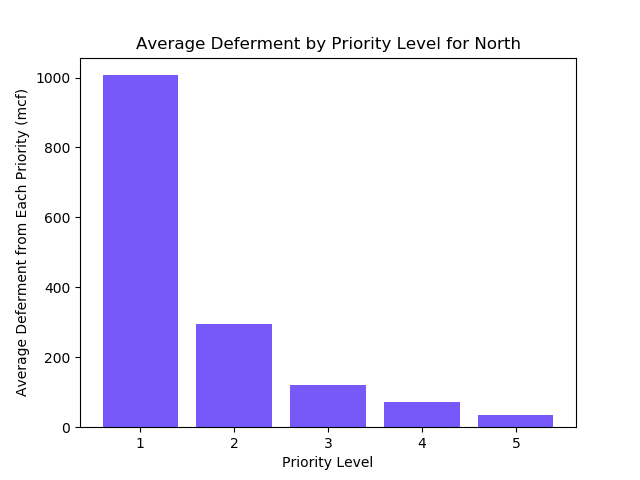
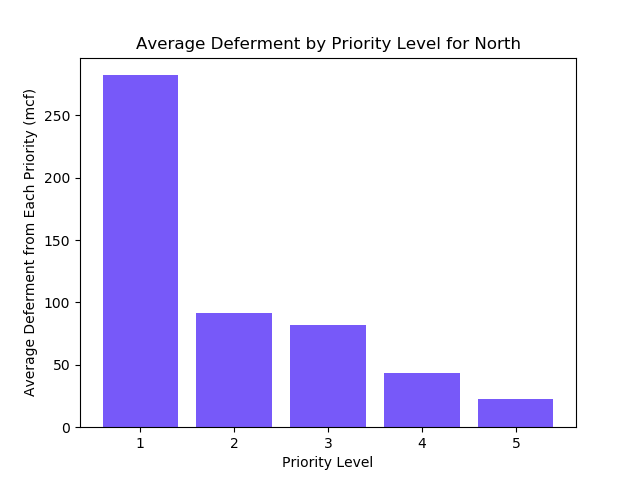
updated dispatch query

diff --git a/dispatch.py b/dispatch.py
@@ -50,10 +50,10 @@ def dispatch_pull():
 		  JOIN [OperationsDataMart].[Dimensions].[Facilities] F
 			ON F.Facilitykey = D.Facilitykey
 		  LEFT OUTER JOIN [TeamOptimizationEngineering].[Reporting].[ActionListHistory] ALH
-			ON LEFT(ALH.assetAPI, 8) = LEFT(D.LocationID, 8)
-			AND ALH.Person_assigned = D.Person_assigned
+			ON LEFT(ALH.assetAPI, 10) = LEFT(D.LocationID, 10)
 			AND CAST(D.CalcDate AS DATE) = CAST(ALH.[Action Date] AS DATE)
-		WHERE F.BusinessUnit IN ('North', 'West')
+		WHERE F.BusinessUnit IN ('West')
+		AND LEN(D.Person_assigned) > 2
 	""")
 
 	cursor.execute(SQLCommand)
@@ -141,7 +141,8 @@ def dispatch_hours(df):
 		plt.close()
 
 		def_df = df[(df['BusinessUnit'] == bu) &
-				    (df['agg_dur'].notnull())]\
+				    (df['agg_dur'].notnull()) &
+					(df['DefermendGas'] > 0)]\
 				   .groupby('PriorityLevel', as_index=False).mean()
 		def_df.rename(index=str, columns={'LocationID': 'Completed'}, inplace=True)
 
